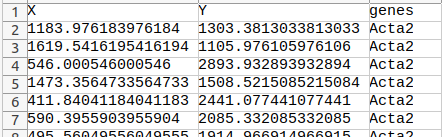
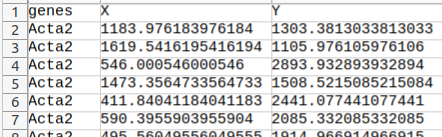
Parameter readouts fix

diff --git a/src/cover.css b/src/cover.css
@@ -1,0 +1,284 @@
+/*
+ * Globals
+ */
+
+/* Links */
+a,
+a:focus,
+a:hover {
+  color: #fff;
+}
+
+/* Custom default button */
+.btn-secondary,
+.btn-secondary:hover,
+.btn-secondary:focus {
+  color: #333;
+  text-shadow: none; /* Prevent inheritance from `body` */
+  background-color: #fff;
+  border: .05rem solid #fff;
+}
+
+.btn-mdb-color{
+  width: 140px;
+}
+
+
+/*
+ * Base structure
+ */
+
+html,
+body {
+  height: 100%;
+  background-color: transparent;
+}
+
+body {
+  background: url("../resources/bg_index.jpg") no-repeat center center ;
+  background-color: black;
+  background-size: cover;
+  background-attachment: fixed;
+  display: -ms-flexbox;
+  /* display: -webkit-box; */
+  /* display: flex; */
+  -ms-flex-pack: center;
+  -webkit-box-pack: center;
+  justify-content: center;
+  color: #fff;
+  text-shadow: 0 .05rem .1rem rgba(0, 0, 0, .5);
+  box-shadow: inset 0 0 5rem rgba(0, 0, 0, .5);
+}
+
+.cover-container {
+  max-width: 42em;
+}
+
+
+/*
+ * Header
+ */
+.masthead {
+  margin-bottom: 2rem;
+}
+
+.masthead-brand {
+  margin-bottom: 0;
+  color: #8df;
+}
+
+.nav-masthead .nav-link {
+  /* padding: .25rem 0; */
+  font-weight: 700;
+  color: rgba(255, 255, 255, .5);
+  border-bottom: .25rem solid transparent;
+}
+
+.nav-masthead .nav-link:hover,
+.nav-masthead .nav-link:focus {
+  border-bottom-color: rgba(255, 255, 255, .25);
+}
+
+.nav-masthead .nav-link + .nav-link {
+  margin-left: 1rem;
+}
+
+.nav-masthead .active {
+  color: #fff;
+  border-bottom-color: #fff;
+}
+
+@media (min-width: 48em) {
+  .masthead-brand {
+    float: left;
+  }
+  .nav-masthead {
+    float: right;
+  }
+}
+
+
+/*
+ * Cover
+ */
+.cover {
+  /* padding:  0 1.5rem; */
+}
+.cover .btn-lg {
+  padding: 0 1.25rem;
+  font-weight: 700;
+}
+
+.data-button-wrap{
+  /* max-width: 25%; */
+}
+
+
+/*
+ * Footer
+ */
+.mastfoot {
+  color: rgba(255, 255, 255, .5);
+}
+
+.img-fluid {
+  /* display: block; */
+  max-width: 20%;
+  height: auto;
+}
+
+.nav{
+  background-color: black;
+
+}
+
+.img-thumbnail{
+  /* max-width: 20%; */
+  height: 150px;
+  width: 110px;
+  background-color: white;
+  background-blend-mode: lighten;}
+
+.upload-div{
+ /* display: inline-block; */
+ /* padding: 15%; */
+}
+
+.loader {
+  border: 5px solid gray; /* Light grey */
+  border-top: 6px solid black; /* Blue */
+  border-radius: 20px;
+  width: 40px;
+  height: 40px;
+  animation: spin 2s linear infinite;
+}
+
+@keyframes spin {
+  0% { transform: rotate(0deg); }
+  100% { transform: rotate(360deg); }
+}
+
+ #Progress {
+  width: 100%;
+  background-color: white;
+}
+
+#Bar {
+  width: 0%;
+  height: 30px;
+  background-color: black;
+}
+
+
+/* Modal Content/Box */
+.modal-content {
+  text-align: left;
+  /* display:  none;  */
+  position: fixed;
+  z-index: 1;
+  top: 5%;
+  background-color: #fefefecc;
+  margin: 15% auto; /* 15% from the top and centered */
+  padding: 20px;
+  border: 1px solid #888;
+  width: 500px;
+  /* height: 200px; */
+  color: black;
+
+}
+
+#tutorial-modal-data{
+  left: 5%;
+  display: none;
+}
+
+#tutorial-modal{
+  display: none;
+}
+
+#tutorial-modal-data-coords{
+  right: 5%;
+  width: 400px;
+  display: none;
+}
+
+#tutorial-modal-data-disp{
+  right: 5%;
+  width: 400px;
+  display: none;
+}
+
+#tutorial-modal-data-sigs{
+  left: 5%;
+  width: 400px;
+  display: none;
+}
+
+#tutorial-modal-analysis-KDE{
+  display: none;
+  right: 5%;
+  width: 300px;
+}
+
+#tutorial-modal-analysis-assignments{
+  display: none;
+  left: 5%;
+  width: 300px;
+}
+
+/* The Close Button */
+.btn-next {
+  display: inline;
+  color: rgb(22, 21, 21);
+  /* float: right; */
+  /* font-size: 28px;
+  font-weight: bold; */
+}
+
+/* The Close Button */
+#button-tutorial-download {
+  display: inline;
+  color: rgb(255, 240, 240);
+  background-color: rgb(52, 52, 172);
+  border: 0px;
+  /* float: right; */
+  /* font-size: 28px;
+  font-weight: bold; */
+}
+
+
+/* The Close Button */
+.btn-close {
+  display: inline;
+  color: rgb(22, 21, 21);
+  /* float: right; */
+  /* font-size: 28px;
+  font-weight: bold; */
+}
+
+/* The Close Button */
+.btn-tutorial {
+  display: inline;
+  color: rgb(22, 21, 21);
+  /* float: right; */
+  /* font-size: 28px;
+  font-weight: bold; */
+} 
+
+.btn-go {
+  display: inline;
+  color: rgb(22, 21, 21);
+  /* float: right; */
+  /* font-size: 28px;
+  font-weight: bold; */
+}
+
+#hoverinfo{
+  position: relative; 
+  z-index:2; 
+  /* height: 100px;   */
+  width: 100px; 
+  background-color: #33333399;
+  border: solid 2px lightgray;
+  display: none;
+}

diff --git a/scripts/controller.js b/scripts/controller.js
@@ -89,12 +89,12 @@ function main() {
         var ZGenes;     // gene information
         var xmax;       // highest coordinate
         var ymax;       // lowest coordinate
-        var sigma = 1;    // KDE kernel width
+        var sigma = parseFloat(document.getElementById('KDE-bandwidth').value);     // KDE kernel width
 
-        var height = 300; // vf height (pixels)
+        var height = parseFloat(document.getElementById('vf-width').value);         // vf height (pixels)
         var width;      // vf width (pixels)
         var edgeRatio = 1;// radion height/width
-        var threshold = 10;
+        var threshold = parseFloat(document.getElementById('threshold').value);     // cell/ecm cutoff
         var vf;         // tensor vectorfield
         var vfNorm;     // tensor vfNorm
 
@@ -167,21 +167,23 @@ function main() {
         width = Math.ceil(height * edgeRatio);
         document.getElementById("vf-size-information").innerHTML =
             "total size: (" + width + "," + height + "," + genes.length + "); " + Math.ceil(width * height * 32 * genes.length / 1024 ** 2) + " gB"
-        if (document.getElementById('preview-generator') == 'block') {
+        if (document.getElementById('preview-generator').style.display == 'block') {
             updateParameterVf();
         }
     };
 
     function updateSigma() {
         sigma = parseFloat(document.getElementById('KDE-bandwidth').value);
-        if (document.getElementById('preview-generator') == 'block') {
+        console.log(document.getElementById('preview-generator').style.display);
+
+        if (document.getElementById('preview-generator').style.display == 'block') {
             updateParameterVf();
         }
     };
 
     function updateThreshold() {
         threshold = parseFloat(document.getElementById('threshold').value);
-        if (document.getElementById('preview-generator') == 'block') {
+        if (document.getElementById('preview-generator').style.display == 'block') {
             updateParameterCelltypes();
         }
     };

diff --git a/index.html b/index.html
@@ -100,8 +100,8 @@
                     <img src="resources/imgs/tutorial/coordinate_prev.png" style="height: 100px">
                     </p>
                     <p>
-                        The file contains three columns: The first two contain X,Y-coordinates per molecule,
-                        the third one the molecule label.
+                        The file contains three columns: The first one contains the molecule label, the other two 
+                        contain X,Y-coordinates per molecule.
                     </p>
 
                     <p>
@@ -492,7 +492,7 @@
                 <h1 class="cover-heading">About</h1>
 
                 <div class="d-flex flex-column">
-                    <div style="text-align: center; padding: 20px;">
+                    <div style="text-align: center; padding: 40px;">
                         The SSAM framework was conceived by Dr. Jeongbin Park
                         as part of his PhD project at the Berlin Institute of Heath.
                     </div>
@@ -535,7 +535,7 @@
                             </a>
                         </div>
                     </div>
-                    <div style="color: gray; padding: 5px;">
+                    <div style="color: gray; padding: 30px;">
                         Designed and implemented by Sebastian Tiesmeyer, BIH.
                     </div>
                 </div>
